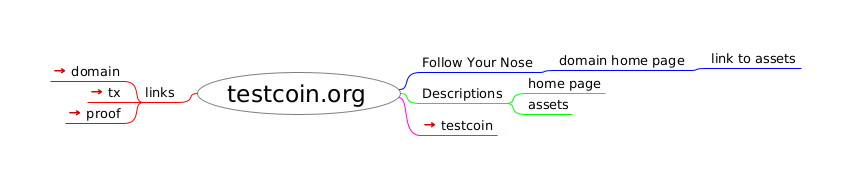
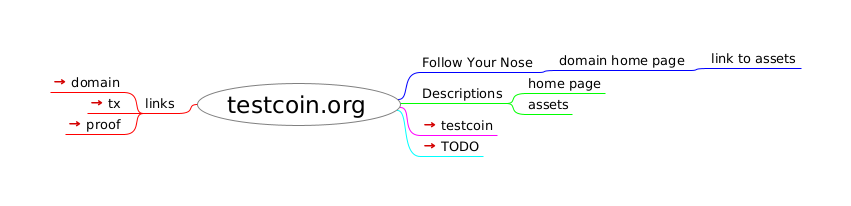
Link TODO to index in webmap

diff --git a/webmaps/index.html b/webmaps/index.html
@@ -23,11 +23,11 @@
                    };
                };
           
-          --></script></head><body><h1>testcoin.org</h1><div style="width:96%;  padding:2%;  margin-bottom:10px;  border: 0px;  text-align:center;  vertical-align:center;"><img src="index.html_files/image.png" style="margin-bottom:10px; &#9;border: 0px; &#9;text-align:center; &#9;vertical-align:center;" alt="Imagemap" usemap="#fm_imagemap" /></div><map name="fm_imagemap" id="fm_imagemap"><area shape="rect" href="#FMID_908760835FM" alt="testcoin.org" title="testcoin.org" coords="197,72,401,115" />
-<area shape="rect" href="#FMID_200723922FM" alt="links" title="links" coords="143,84,178,102" />
-<area shape="rect" href="https://testcoin.org/" alt="domain" title="domain" coords="50,63,124,81" />
-<area shape="rect" href="https://blockstream.info/liquid/tx/ed9a107828fb81828acf9b9355d031fc1ff10e2b66ee3c229eac49512e884132?expand" alt="tx" title="tx" coords="87,84,124,102" />
-<area shape="rect" href="https://testcoin.org/.well-known/liquid-asset-proof-59fb8b06d94ee4829ddcc66cfe0820e339df552ce4616e5325af23ca28f37b6d" alt="proof" title="proof" coords="65,105,124,123" />
+          --></script></head><body><h1>testcoin.org</h1><div style="width:96%;  padding:2%;  margin-bottom:10px;  border: 0px;  text-align:center;  vertical-align:center;"><img src="index.html_files/image.png" style="margin-bottom:10px; &#9;border: 0px; &#9;text-align:center; &#9;vertical-align:center;" alt="Imagemap" usemap="#fm_imagemap" /></div><map name="fm_imagemap" id="fm_imagemap"><area shape="rect" href="#FMID_908760835FM" alt="testcoin.org" title="testcoin.org" coords="197,83,401,126" />
+<area shape="rect" href="#FMID_200723922FM" alt="links" title="links" coords="143,95,178,113" />
+<area shape="rect" href="https://testcoin.org/" alt="domain" title="domain" coords="50,74,124,92" />
+<area shape="rect" href="https://blockstream.info/liquid/tx/ed9a107828fb81828acf9b9355d031fc1ff10e2b66ee3c229eac49512e884132?expand" alt="tx" title="tx" coords="87,95,124,113" />
+<area shape="rect" href="https://testcoin.org/.well-known/liquid-asset-proof-59fb8b06d94ee4829ddcc66cfe0820e339df552ce4616e5325af23ca28f37b6d" alt="proof" title="proof" coords="65,116,124,134" />
 <area shape="rect" href="#FMID_589110765FM" alt="Follow Your Nose" title="Follow Your Nose" coords="420,54,538,72" />
 <area shape="rect" href="#FMID_1561194012FM" alt="domain home page" title="domain home page" coords="557,52,690,70" />
 <area shape="rect" href="#FMID_97728876FM" alt="link to assets" title="link to assets" coords="709,50,801,68" />
@@ -35,7 +35,8 @@
 <area shape="rect" href="#FMID_1722364542FM" alt="home page" title="home page" coords="526,75,605,93" />
 <area shape="rect" href="#FMID_128786551FM" alt="assets" title="assets" coords="526,96,572,114" />
 <area shape="rect" href="testcoin.html" alt="testcoin" title="testcoin" coords="420,117,497,135" />
+<area shape="rect" href="TODO.html" alt="TODO" title="TODO" coords="420,138,483,156" />
 </map>
 
-<div class="node"><img src="index.html_files/hide.png" class="hideshow" alt="hide" onClick="toggle(&quot;N65543&quot;)" id="imgN65543" /><a id="FMID_908760835FM" /><div class="nodecontent" style="color:#000000;font-size:150%;">testcoin.org</div><div class="content" id="N65543"><div class="node"><img src="index.html_files/hide.png" class="hideshow" alt="hide" onClick="toggle(&quot;N66439&quot;)" id="imgN66439" /><a id="FMID_200723922FM" /><div class="nodecontent" style="color:#000000;font-size:83%;">links</div><div class="content" id="N66439"><div class="node"><img src="index.html_files/leaf.png" class="hideshow" alt="leaf" /><a id="FMID_1713939624FM" /><div class="nodecontent" style="color:#000000;font-size:83%;"><a href="https://testcoin.org/">domain</a> <a href="https://testcoin.org/"><img src="index.html_files/ilink.png" alt="User Link" style="border-width:0" /></a></div></div><div class="node"><img src="index.html_files/leaf.png" class="hideshow" alt="leaf" /><a id="FMID_1170463871FM" /><div class="nodecontent" style="color:#000000;font-size:83%;"><a href="https://blockstream.info/liquid/tx/ed9a107828fb81828acf9b9355d031fc1ff10e2b66ee3c229eac49512e884132?expand">tx</a> <a href="https://blockstream.info/liquid/tx/ed9a107828fb81828acf9b9355d031fc1ff10e2b66ee3c229eac49512e884132?expand"><img src="index.html_files/ilink.png" alt="User Link" style="border-width:0" /></a></div></div><div class="node"><img src="index.html_files/leaf.png" class="hideshow" alt="leaf" /><a id="FMID_1824857751FM" /><div class="nodecontent" style="color:#000000;font-size:83%;"><a href="https://testcoin.org/.well-known/liquid-asset-proof-59fb8b06d94ee4829ddcc66cfe0820e339df552ce4616e5325af23ca28f37b6d">proof</a> <a href="https://testcoin.org/.well-known/liquid-asset-proof-59fb8b06d94ee4829ddcc66cfe0820e339df552ce4616e5325af23ca28f37b6d"><img src="index.html_files/ilink.png" alt="User Link" style="border-width:0" /></a></div></div></div></div><div class="node"><img src="index.html_files/hide.png" class="hideshow" alt="hide" onClick="toggle(&quot;N66587&quot;)" id="imgN66587" /><a id="FMID_589110765FM" /><div class="nodecontent" style="color:#000000;font-size:83%;">Follow Your Nose</div><div class="content" id="N66587"><div class="node"><img src="index.html_files/hide.png" class="hideshow" alt="hide" onClick="toggle(&quot;N66623&quot;)" id="imgN66623" /><a id="FMID_1561194012FM" /><div class="nodecontent" style="color:#000000;font-size:83%;">domain home page</div><div class="content" id="N66623"><div class="node"><img src="index.html_files/leaf.png" class="hideshow" alt="leaf" /><a id="FMID_97728876FM" /><div class="nodecontent" style="color:#000000;font-size:83%;">link to assets</div></div></div></div></div></div><div class="node"><img src="index.html_files/hide.png" class="hideshow" alt="hide" onClick="toggle(&quot;N66696&quot;)" id="imgN66696" /><a id="FMID_193484510FM" /><div class="nodecontent" style="color:#000000;font-size:83%;">Descriptions</div><div class="content" id="N66696"><div class="node"><img src="index.html_files/leaf.png" class="hideshow" alt="leaf" /><a id="FMID_1722364542FM" /><div class="nodecontent" style="color:#000000;font-size:83%;">home page</div></div><div class="node"><img src="index.html_files/leaf.png" class="hideshow" alt="leaf" /><a id="FMID_128786551FM" /><div class="nodecontent" style="color:#000000;font-size:83%;">assets</div></div></div></div><div class="node"><img src="index.html_files/leaf.png" class="hideshow" alt="leaf" /><a id="FMID_163394869FM" /><div class="nodecontent" style="color:#000000;font-size:83%;"><a href="testcoin.html">testcoin</a> <a href="testcoin.html"><img src="index.html_files/ilink.png" alt="User Link" style="border-width:0" /></a></div></div></div></div>
+<div class="node"><img src="index.html_files/hide.png" class="hideshow" alt="hide" onClick="toggle(&quot;N65543&quot;)" id="imgN65543" /><a id="FMID_908760835FM" /><div class="nodecontent" style="color:#000000;font-size:150%;">testcoin.org</div><div class="content" id="N65543"><div class="node"><img src="index.html_files/hide.png" class="hideshow" alt="hide" onClick="toggle(&quot;N66439&quot;)" id="imgN66439" /><a id="FMID_200723922FM" /><div class="nodecontent" style="color:#000000;font-size:83%;">links</div><div class="content" id="N66439"><div class="node"><img src="index.html_files/leaf.png" class="hideshow" alt="leaf" /><a id="FMID_1713939624FM" /><div class="nodecontent" style="color:#000000;font-size:83%;"><a href="https://testcoin.org/">domain</a> <a href="https://testcoin.org/"><img src="index.html_files/ilink.png" alt="User Link" style="border-width:0" /></a></div></div><div class="node"><img src="index.html_files/leaf.png" class="hideshow" alt="leaf" /><a id="FMID_1170463871FM" /><div class="nodecontent" style="color:#000000;font-size:83%;"><a href="https://blockstream.info/liquid/tx/ed9a107828fb81828acf9b9355d031fc1ff10e2b66ee3c229eac49512e884132?expand">tx</a> <a href="https://blockstream.info/liquid/tx/ed9a107828fb81828acf9b9355d031fc1ff10e2b66ee3c229eac49512e884132?expand"><img src="index.html_files/ilink.png" alt="User Link" style="border-width:0" /></a></div></div><div class="node"><img src="index.html_files/leaf.png" class="hideshow" alt="leaf" /><a id="FMID_1824857751FM" /><div class="nodecontent" style="color:#000000;font-size:83%;"><a href="https://testcoin.org/.well-known/liquid-asset-proof-59fb8b06d94ee4829ddcc66cfe0820e339df552ce4616e5325af23ca28f37b6d">proof</a> <a href="https://testcoin.org/.well-known/liquid-asset-proof-59fb8b06d94ee4829ddcc66cfe0820e339df552ce4616e5325af23ca28f37b6d"><img src="index.html_files/ilink.png" alt="User Link" style="border-width:0" /></a></div></div></div></div><div class="node"><img src="index.html_files/hide.png" class="hideshow" alt="hide" onClick="toggle(&quot;N66587&quot;)" id="imgN66587" /><a id="FMID_589110765FM" /><div class="nodecontent" style="color:#000000;font-size:83%;">Follow Your Nose</div><div class="content" id="N66587"><div class="node"><img src="index.html_files/hide.png" class="hideshow" alt="hide" onClick="toggle(&quot;N66623&quot;)" id="imgN66623" /><a id="FMID_1561194012FM" /><div class="nodecontent" style="color:#000000;font-size:83%;">domain home page</div><div class="content" id="N66623"><div class="node"><img src="index.html_files/leaf.png" class="hideshow" alt="leaf" /><a id="FMID_97728876FM" /><div class="nodecontent" style="color:#000000;font-size:83%;">link to assets</div></div></div></div></div></div><div class="node"><img src="index.html_files/hide.png" class="hideshow" alt="hide" onClick="toggle(&quot;N66696&quot;)" id="imgN66696" /><a id="FMID_193484510FM" /><div class="nodecontent" style="color:#000000;font-size:83%;">Descriptions</div><div class="content" id="N66696"><div class="node"><img src="index.html_files/leaf.png" class="hideshow" alt="leaf" /><a id="FMID_1722364542FM" /><div class="nodecontent" style="color:#000000;font-size:83%;">home page</div></div><div class="node"><img src="index.html_files/leaf.png" class="hideshow" alt="leaf" /><a id="FMID_128786551FM" /><div class="nodecontent" style="color:#000000;font-size:83%;">assets</div></div></div></div><div class="node"><img src="index.html_files/leaf.png" class="hideshow" alt="leaf" /><a id="FMID_163394869FM" /><div class="nodecontent" style="color:#000000;font-size:83%;"><a href="testcoin.html">testcoin</a> <a href="testcoin.html"><img src="index.html_files/ilink.png" alt="User Link" style="border-width:0" /></a></div></div><div class="node"><img src="index.html_files/leaf.png" class="hideshow" alt="leaf" /><a id="FMID_1412185423FM" /><div class="nodecontent" style="color:#000000;font-size:83%;"><a href="TODO.html">TODO</a> <a href="TODO.html"><img src="index.html_files/ilink.png" alt="User Link" style="border-width:0" /></a></div></div></div></div>
 </body></html>
